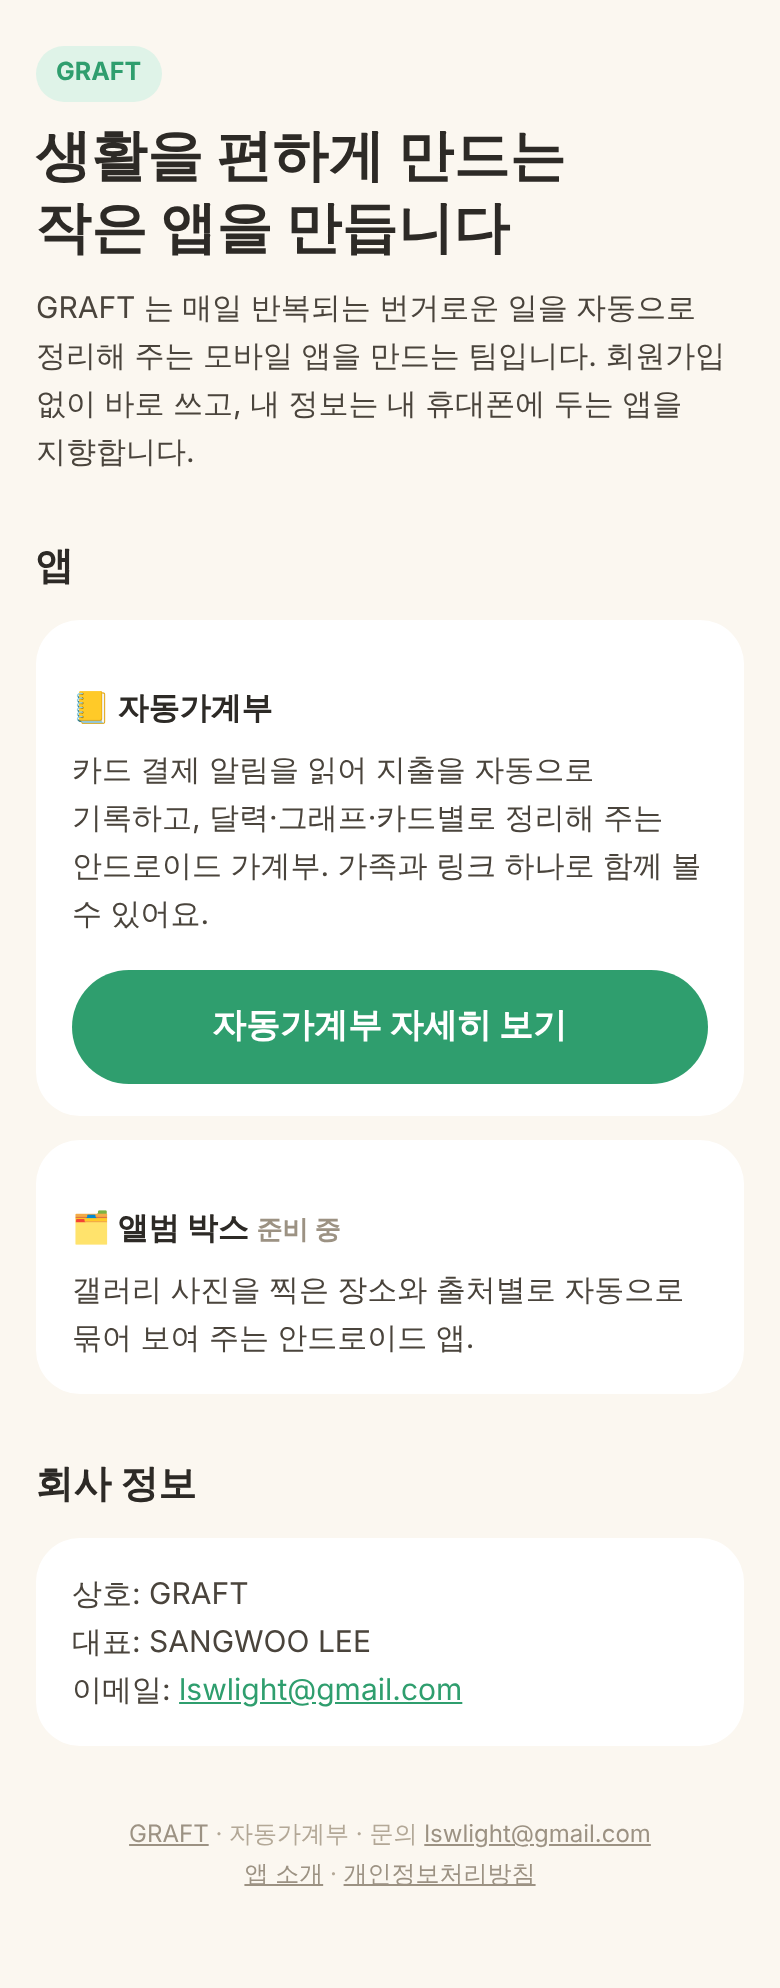
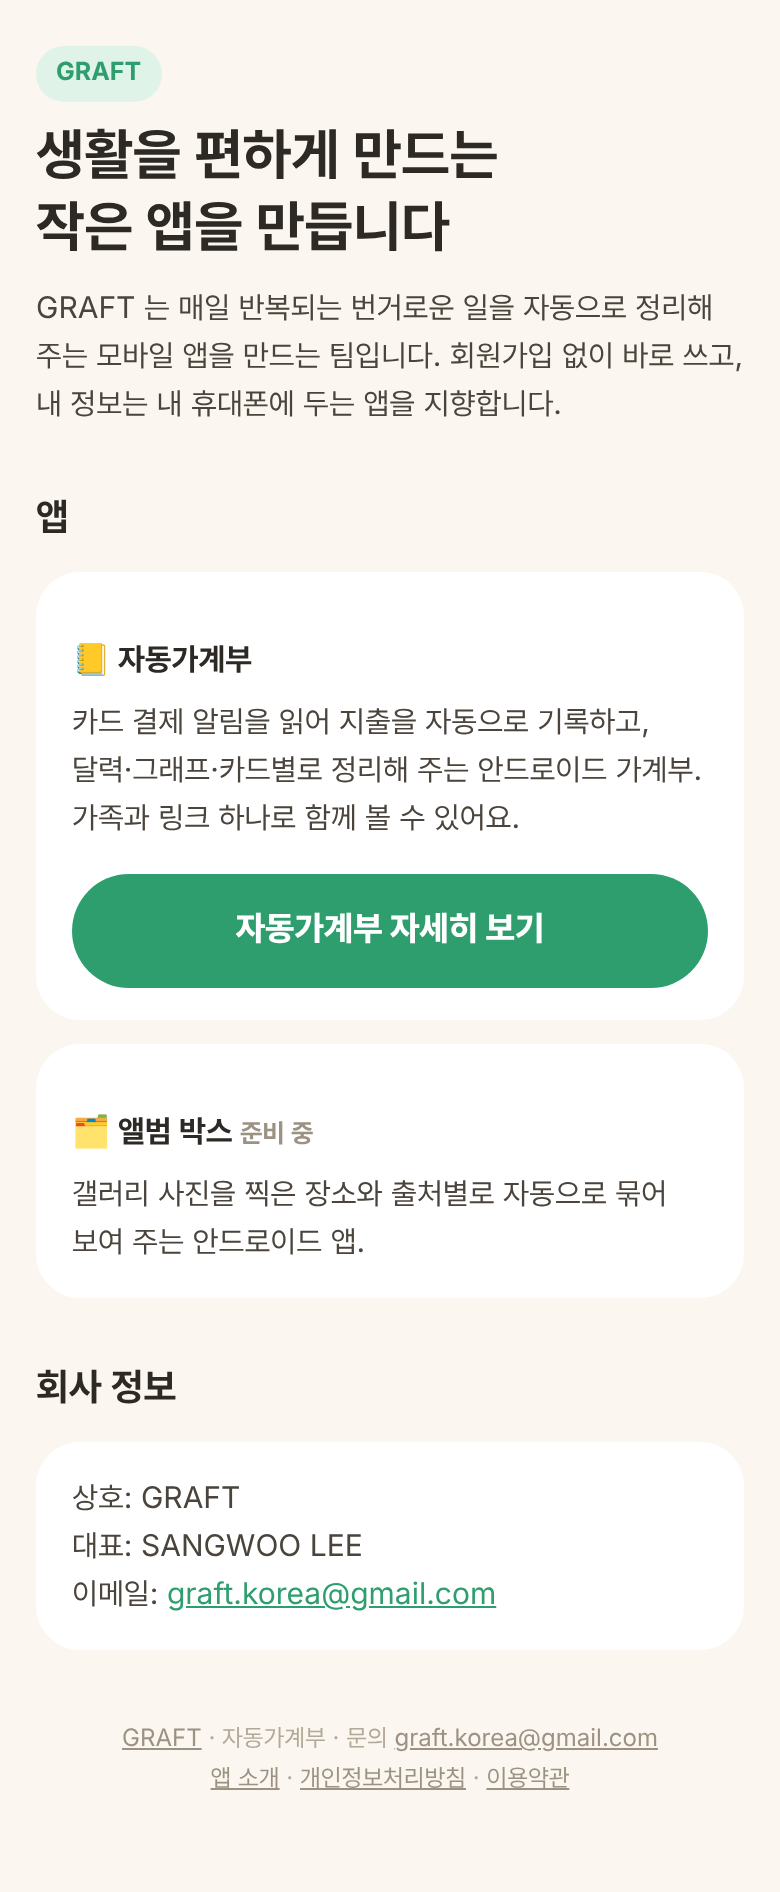
전자책: 회사 사이트 그림을 회사 메일 버전으로 교체, 비공개 테스트 건너뜀 설명 추가
Claude-Session: https://claude.ai/code/session_01X3WCR2UH3udTRw91uhXGGJ

diff --git a/docs/ebook/chapters/ch07.html b/docs/ebook/chapters/ch07.html
@@ -117,7 +117,7 @@
 
 <h2><span class="tag">따라 하기</span>⑤ 회사 사이트·개인정보처리방침·이용약관</h2>
 <p>도메인을 연결한 서버(6장)에 회사 페이지도 함께 넣었습니다. 서버 하나가 주소에 따라 다른 페이지를 보여 줍니다.</p>
-<div class="side"><fig src="web-01-company-home.png" cap="graftkorea.com 첫 화면(개인정보 흐림 처리)"></fig>
+<div class="side"><fig src="web-01-company-home.png" cap="graftkorea.com 첫 화면. 연락처는 회사 메일"></fig>
 <div class="txt">
 <table>
 <tr><th>주소</th><th>내용</th></tr>
@@ -139,7 +139,7 @@
 <li>공유를 끄면 서버의 기록이 모두 지워진다. 문의는 회사 메일로.</li>
 </ul>
 <div class="box warn"><span class="h">사이트의 연락처를 확인하세요</span>
-처음 만든 사이트에 개인 메일이 들어가 있었습니다(위 캡처에서 흐리게 처리한 부분). 회사 사이트·개인정보처리방침에는 <b>회사 메일(graft.korea@gmail.com)</b>만 쓰도록 AI에게 분명히 말하고, 공개 전에 직접 열어서 확인하세요.
+처음 만든 사이트에는 개인 메일이 들어가 있어서, 나중에 회사 메일로 바꿨습니다. 회사 사이트·개인정보처리방침에는 <b>회사 메일(graft.korea@gmail.com)</b>만 쓰도록 AI에게 분명히 말하고, 공개 전에 직접 열어서 확인하세요.
 </div>
 
 <h2><span class="tag">따라 하기</span>⑥ Search Console로 도메인 소유 인증</h2>

diff --git a/docs/ebook/chapters/ch10.html b/docs/ebook/chapters/ch10.html
@@ -133,6 +133,7 @@
 <fig src="play-14-publishing-overview-locked.png" crop="0,40,1821,520" w="96%" marks="1488,226,162,40,1,r;157,138,222,40,2;1630,296,112,30,3,r" cap="필수 항목이 남아 있을 때. <b>①</b> [검토를 위해 앱 전송]이 회색 <b>②</b> 관리형 게시 꺼짐 <b>③</b> 대시보드로 이동해 남은 항목 확인"></fig>
 <p>버튼이 회색이면 대시보드에 남은 항목이 있다는 뜻입니다. 대시보드로 가서 체크가 안 된 항목을 끝내고 돌아옵니다. 모두 끝나면 버튼이 파랗게 바뀝니다.</p>
 <fig src="play-22-submit-ready.png" crop="0,30,1693,610" w="96%" marks="1340,202,232,40,1,r;70,495,1600,56,2;70,552,1600,46,3" cap="모든 항목 완료. <b>①</b> 검토를 위해 변경사항 12개 제출 <b>②</b> 프로덕션 전체 출시 <b>③</b> 국가: 대한민국"></fig>
+<p class="small">목록에 '비공개 테스트 - Alpha'가 보이는 것은 대시보드에서 비공개 테스트 트랙의 국가·테스터 설정을 해 둔 흔적입니다. 조직 계정이라 비공개 테스트는 진행하지 않고 건너뛰었고, 제출에도 문제가 없었습니다.</p>
 <fig src="play-23-in-review.png" crop="0,100,1660,300" w="96%" marks="33,90,215,40,1;1528,222,98,28,2,r" cap="제출 완료. <b>①</b> 검토 중인 변경사항 <b>②</b> 빠른 사전 검사 최대 14분"></fig>
 
 <table>
